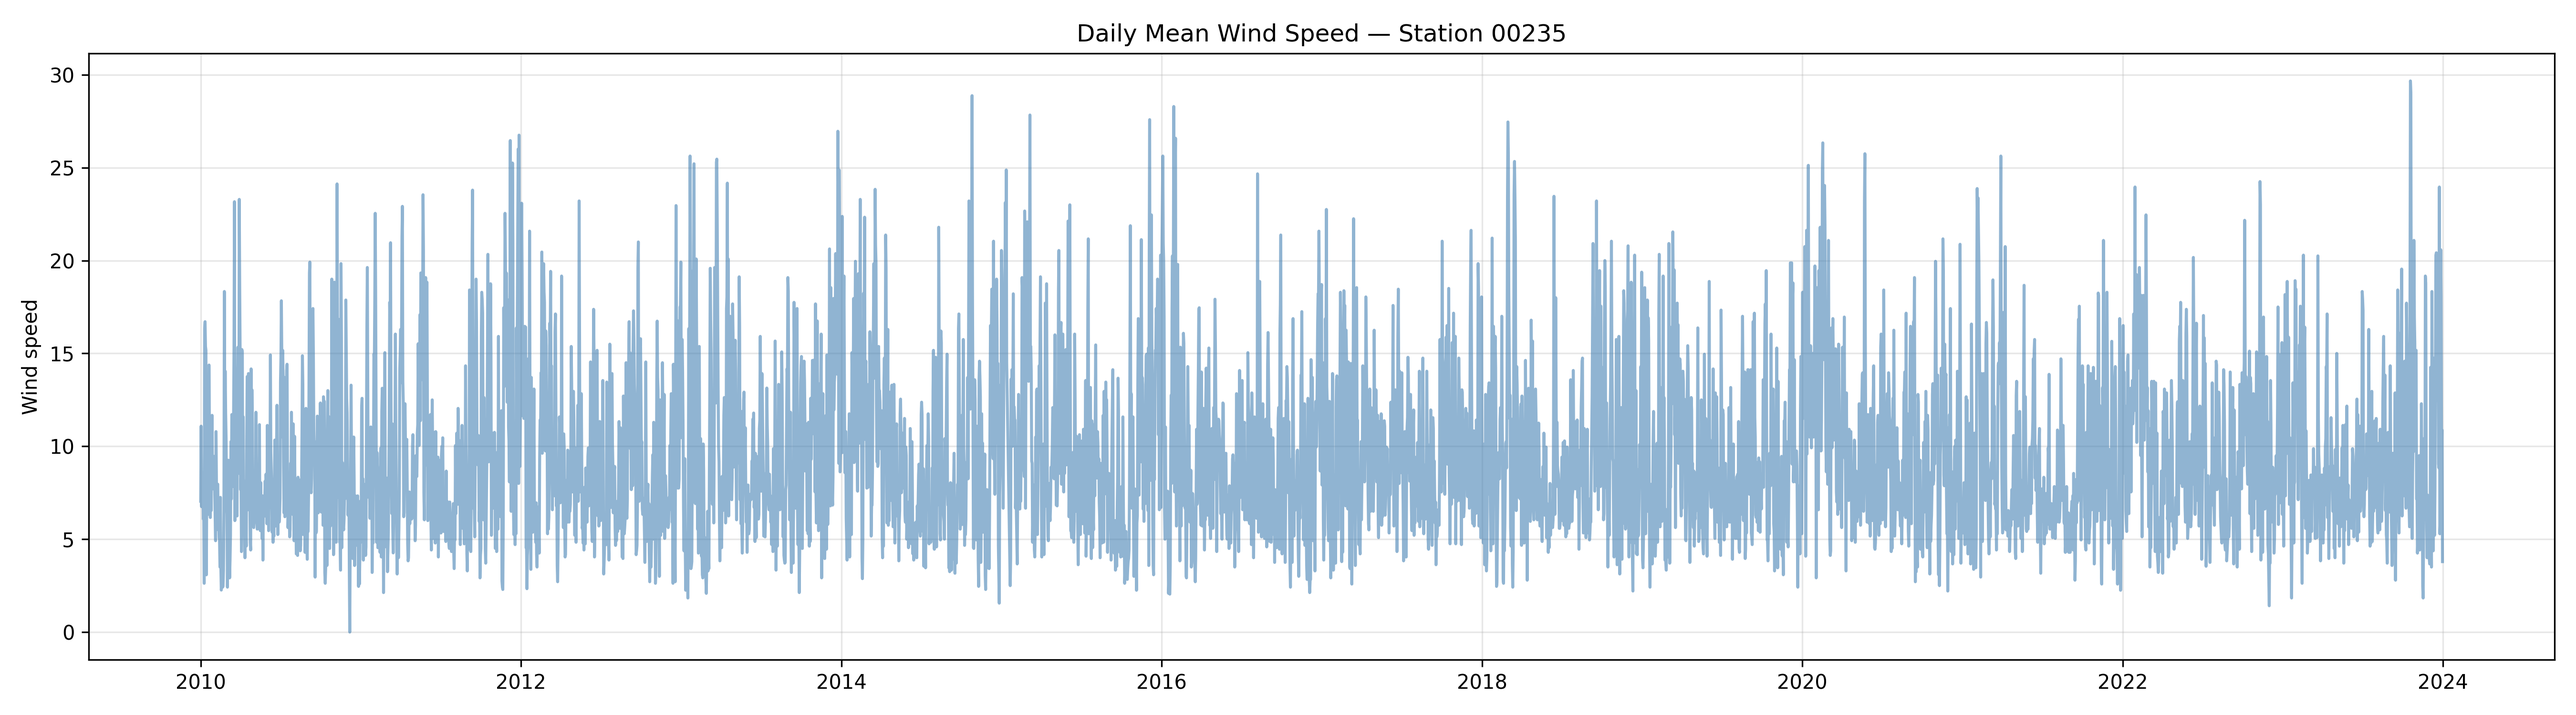
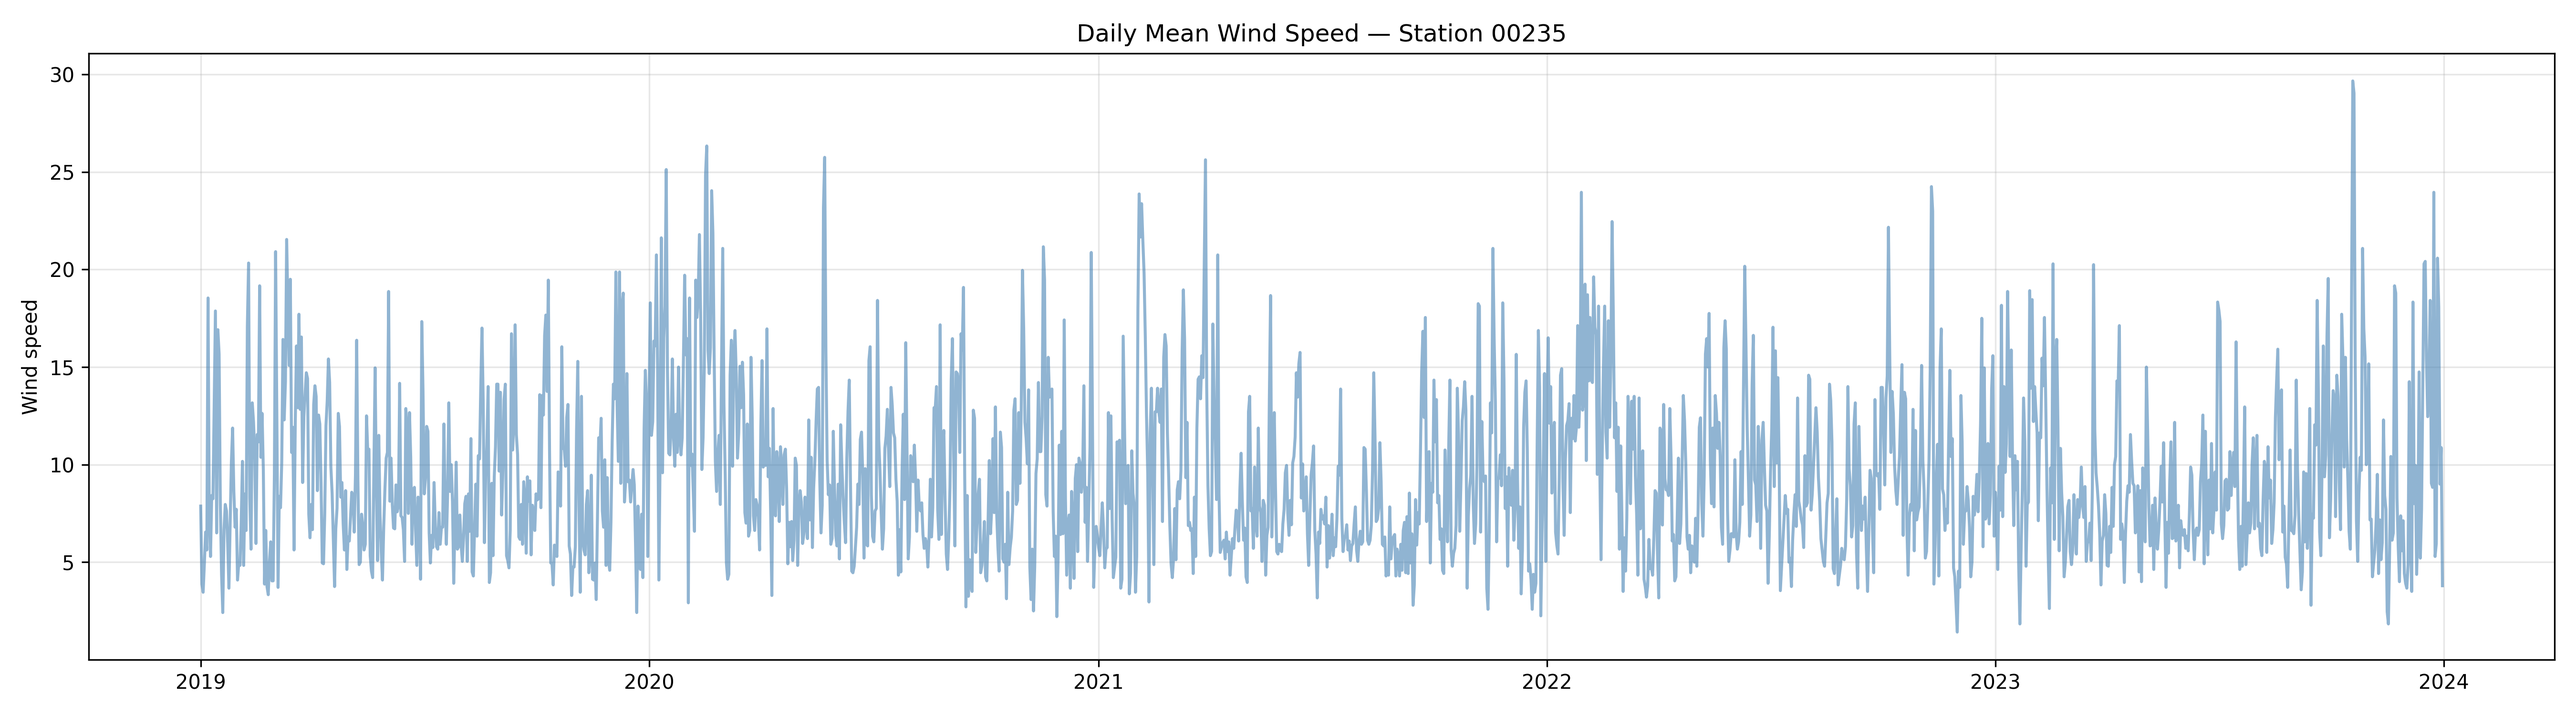
seasonality examination + plots

Changed region(s): [[0.0622, 0.184, 0.9644, 0.8587]]

diff --git a/examine_seasonality.py b/examine_seasonality.py
@@ -14,7 +14,7 @@ OUTPUT_DIR = Path("figures")
 OUTPUT_DIR.mkdir(exist_ok=True)
 
 STATION_ID = "00235"   # example: Stansted (change this)
-START_YEAR = 2010
+START_YEAR = 2019
 END_YEAR = 2023
 
 CHUNKSIZE = 1_000_000
